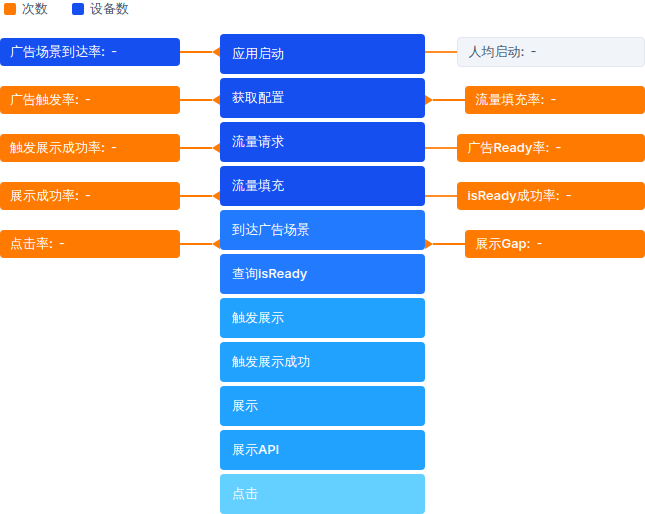
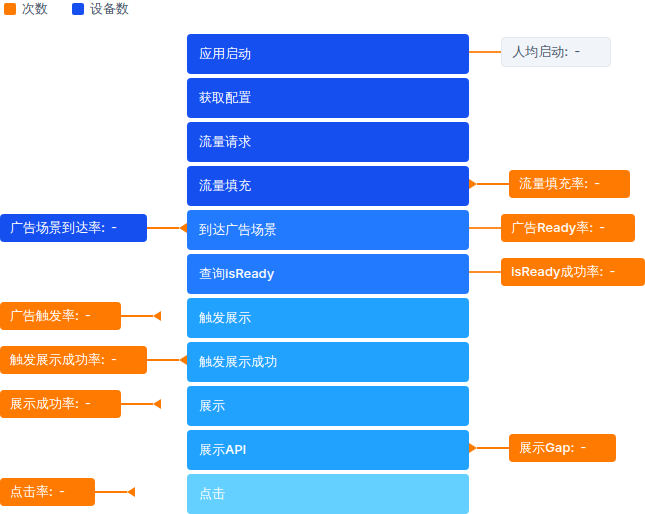
feat: 保存文件变更
Coze-Commit-Type: user
Coze-User-ID: 3335283175079384
Coze-Conversation-ID: 9828427

diff --git a/src/components/FunnelProcessBox.vue b/src/components/FunnelProcessBox.vue
@@ -21,6 +21,7 @@
           :key="`L-${idx}`"
           class="process-box"
           :class="`process-box__${idx + 1}`"
+          :style="{ gridRow: (m.alignIndex ?? idx) + 1 }"
         >
           <div
             class="process-box__content"
@@ -65,6 +66,7 @@
           :key="`R-${idx}`"
           class="process-box"
           :class="`process-box__${idx + 1}`"
+          :style="{ gridRow: (m.alignIndex ?? idx) + 1 }"
         >
           <div v-if="m.withArrow" class="process-box--arrow" />
           <div
@@ -167,6 +169,7 @@ const defaultLeftMetrics: FunnelMetric[] = [
     color: 'primary',
     withArrow: true,
     linkIndices: [0, 4],
+    alignIndex: 4,
   },
   {
     code: 'trigger_rate',
@@ -176,6 +179,7 @@ const defaultLeftMetrics: FunnelMetric[] = [
     color: 'warning',
     withArrow: true,
     linkIndices: [4, 6],
+    alignIndex: 6,
   },
   {
     code: 'trigger_show_rate',
@@ -185,6 +189,7 @@ const defaultLeftMetrics: FunnelMetric[] = [
     color: 'warning',
     withArrow: true,
     linkIndices: [6, 7],
+    alignIndex: 7,
   },
   {
     code: 'show_rate',
@@ -194,6 +199,7 @@ const defaultLeftMetrics: FunnelMetric[] = [
     color: 'warning',
     withArrow: true,
     linkIndices: [8, 9],
+    alignIndex: 8,
   },
   {
     code: 'click_rate',
@@ -203,6 +209,7 @@ const defaultLeftMetrics: FunnelMetric[] = [
     color: 'warning',
     withArrow: true,
     linkIndices: [9, 10],
+    alignIndex: 10,
   },
 ];
 
@@ -215,6 +222,7 @@ const defaultRightMetrics: FunnelMetric[] = [
     color: 'nope',
     withArrow: false,
     linkIndices: [],
+    alignIndex: 0,
   },
   {
     code: 'traffic_fill_rate',
@@ -224,6 +232,7 @@ const defaultRightMetrics: FunnelMetric[] = [
     color: 'warning',
     withArrow: true,
     linkIndices: [2, 3],
+    alignIndex: 3,
   },
   {
     code: 'ad_ready_rate',
@@ -233,6 +242,7 @@ const defaultRightMetrics: FunnelMetric[] = [
     color: 'warning',
     withArrow: false,
     linkIndices: [4, 5],
+    alignIndex: 4,
   },
   {
     code: 'isready_success_rate',
@@ -242,6 +252,7 @@ const defaultRightMetrics: FunnelMetric[] = [
     color: 'warning',
     withArrow: false,
     linkIndices: [5],
+    alignIndex: 5,
   },
   {
     code: 'show_gap',
@@ -251,6 +262,7 @@ const defaultRightMetrics: FunnelMetric[] = [
     color: 'warning',
     withArrow: true,
     linkIndices: [8, 9],
+    alignIndex: 9,
   },
 ];
 

diff --git a/src/index.css b/src/index.css
@@ -10831,14 +10831,14 @@ html, body, #app {
 }
 .chart-panel-container .body .left-box,
 .chart-panel-container .body .right-box {
-  width: 220px;
-  display: flex;
-  flex-direction: column;
-  gap: 12px;
+  display: grid;
+  grid-template-rows: repeat(11, 40px);
+  row-gap: 4px;
   flex-shrink: 0;
+  align-items: start;
 }
 .chart-panel-container .body .main {
-  flex: 1;
+  flex: 1 1 auto;
   display: flex;
   flex-direction: column;
   gap: 4px;
@@ -10885,15 +10885,15 @@ html, body, #app {
 
 /* 指标卡 */
 .chart-panel-container .process-box__content {
-  flex: 1;
-  display: flex;
+  display: inline-flex;
   align-items: center;
   gap: 6px;
   padding: 6px 10px;
   border-radius: 4px;
   font-size: 13px;
   line-height: 1.2;
-  min-width: 0;
+  white-space: nowrap;
+  max-width: 100%;
   overflow: hidden;
 }
 .chart-panel-container .process-box__content .label {
@@ -10978,8 +10978,5 @@ html, body, #app {
 
 /* 响应式：小屏下隐藏图例文字 */
 @media (max-width: 1280px) {
-  .chart-panel-container .body .left-box,
-  .chart-panel-container .body .right-box {
-    width: 180px;
-  }
+  /* 左右 box 宽度由内容自适应，不需要固定值 */
 }

diff --git a/src/views/report/Funnel.vue b/src/views/report/Funnel.vue
@@ -363,6 +363,7 @@ const processLeftMetrics = computed<FunnelMetric[]>(() =>
     tip: m.tip,
     color: m.code === 'arrive_rate' ? 'primary' : 'warning',
     withArrow: true,
+    alignIndex: m.alignIndex,
     linkIndices: m.linkIndices,
   })),
 );
@@ -377,6 +378,7 @@ const processRightMetrics = computed<FunnelMetric[]>(() =>
     tip: m.tip,
     color: m.code === 'per_start' ? 'nope' : 'warning',
     withArrow: m.code === 'fill_rate' || m.code === 'show_gap',
+    alignIndex: m.alignIndex,
     linkIndices: m.linkIndices,
   })),
 );
